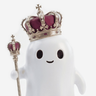
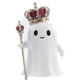
feat(rail): Athena's ghost stands bare, with its background cut out
The crowned ghost's grey background is cut out frame by frame (only the
grey joined to the edges, so its white body stays), the whole figure is
kept, and the rail shows it with no circle, no tile and no highlight.
80px animated WebP (84 KB) and a still PNG for reduced motion.

diff --git a/web/src/Frame/ModeRail.tsx b/web/src/Frame/ModeRail.tsx
@@ -25,14 +25,15 @@ const cellTone = (on: boolean) => (on
   ? 'bg-sidebar-accent text-foreground'
   : 'text-muted-foreground hover:bg-sidebar-accent/50 hover:text-foreground');
 
-/** Athena's mark, the rail's top button: the crowned ghost, idling. With
- *  reduced motion it holds still on its first frame. The button carries
- *  the name, so the picture is decorative. */
+/** Athena's mark, the rail's top button: the crowned ghost, idling, cut
+ *  out on its own (no circle, no tile). With reduced motion it holds still
+ *  on its first frame. The button carries the name, so the picture is
+ *  decorative. */
 function AthenaMark() {
   return (
-    <picture className="block size-8 shrink-0 overflow-hidden rounded-full">
+    <picture className="block size-10 shrink-0">
       <source srcSet="/athena/idle.png" media="(prefers-reduced-motion: reduce)" />
-      <img src="/athena/idle.webp" alt="" width={32} height={32} className="size-8 object-cover" draggable={false} />
+      <img src="/athena/idle.webp" alt="" width={40} height={40} className="size-10" draggable={false} />
     </picture>
   );
 }
@@ -68,7 +69,8 @@ export function ModeRail({ active, onSelect, activeView, sustainmentId, onOpenSu
         return (
           <button key={id} type="button" onClick={() => onSelect(id)}
             aria-label={name} title={name} aria-current={on ? 'page' : undefined}
-            className={`relative ${CELL} ${cellTone(on)}`}>
+            // Athena stands bare: no tile behind it, open or not.
+            className={`relative ${CELL} ${id === 'assistant' ? '' : cellTone(on)}`}>
             {id === 'assistant' ? <AthenaMark /> : <Icon size={18} />}
             {unread && <span aria-hidden className="absolute right-2 top-2 size-2 rounded-full bg-primary" />}
           </button>
